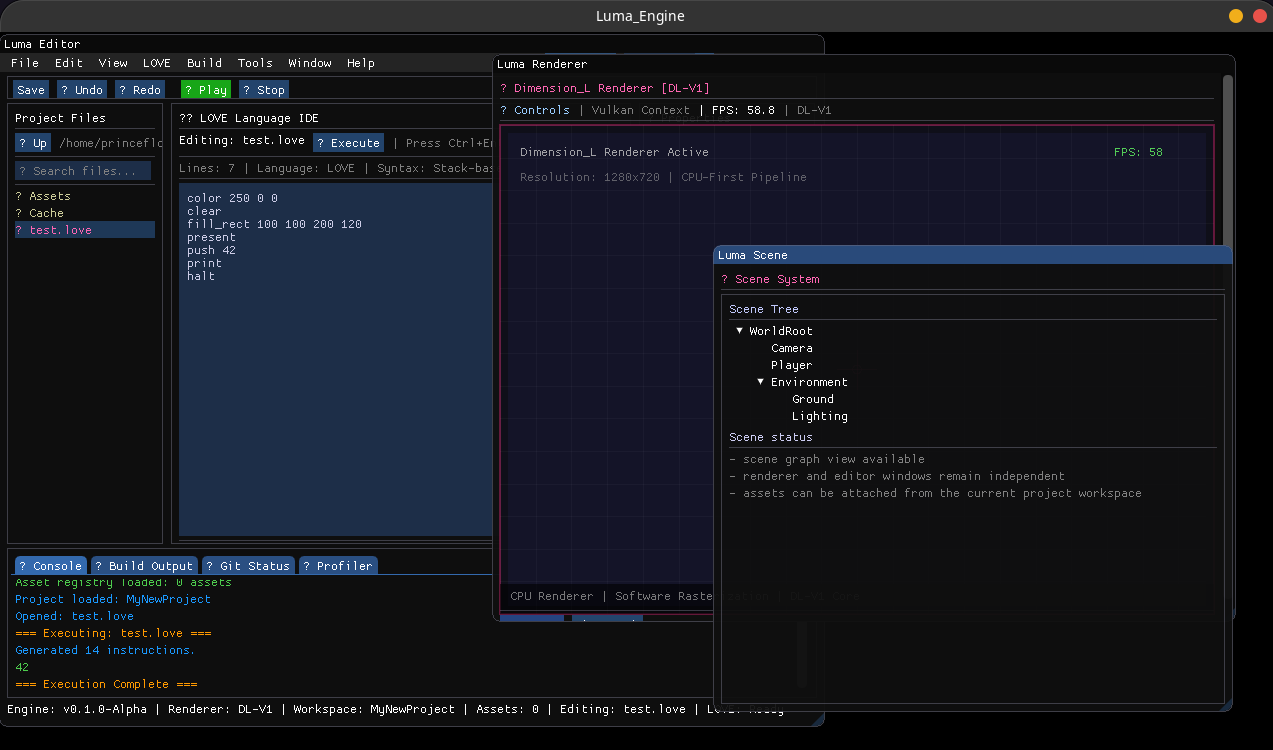
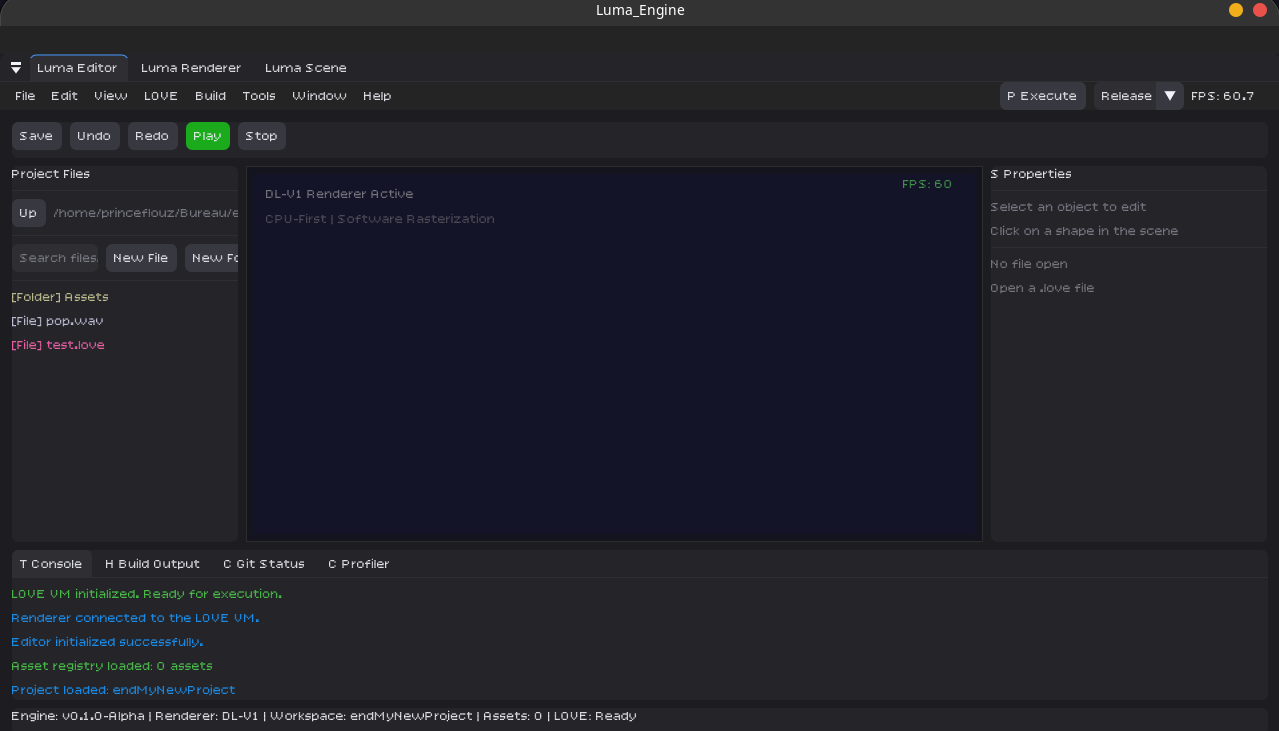
updated website to match current engine status

diff --git a/index.html b/index.html
@@ -301,7 +301,7 @@
         
         <div class="inline-flex items-center gap-2 px-4 py-2 rounded-full glass border border-luma-pink/20 text-xs font-semibold tracking-wide text-luma-pink uppercase mb-6 animate-slide-up">
             <span class="status-dot mr-1"></span>
-            v0.1.0-alpha • Active Development • C++20 • MIT License
+            v0.1.0-alpha • Active Development • C++20 • Proprietary
         </div>
 
         <h1 class="hero-title text-5xl sm:text-6xl md:text-7xl lg:text-8xl font-extrabold tracking-tight max-w-5xl leading-[1.1] mb-8 animate-slide-up" style="animation-delay: 0.1s;">
@@ -309,7 +309,7 @@
         </h1>
         
         <p class="text-base sm:text-xl text-luma-textMuted max-w-2xl font-normal leading-relaxed mb-12 animate-slide-up" style="animation-delay: 0.2s;">
-            A fully working game engine with software rasterization, custom scripting, scene graph, and integrated editor. Build games from source today.
+            A fully working game engine with software rasterization, custom scripting, scene graph, audio system, and integrated editor. Build games from source today.
         </p>
 
         <div class="flex flex-col sm:flex-row gap-4 mb-16 w-full sm:w-auto animate-slide-up" style="animation-delay: 0.3s;">
@@ -463,6 +463,7 @@
                     <li class="flex items-start gap-2"><span class="text-emerald-400">✔</span> Variables (let, get, set)</li>
                     <li class="flex items-start gap-2"><span class="text-emerald-400">✔</span> Control flow (loop/end, jump)</li>
                     <li class="flex items-start gap-2"><span class="text-emerald-400">✔</span> Keyboard &amp; Mouse input</li>
+                    <li class="flex items-start gap-2"><span class="text-emerald-400">✔</span> Audio commands (NEW)</li>
                 </ul>
             </div>
 
@@ -478,7 +479,7 @@
                     <li class="flex items-start gap-2"><span class="text-emerald-400">✔</span> Framebuffer with Z-buffer</li>
                     <li class="flex items-start gap-2"><span class="text-emerald-400">✔</span> Pixel, Line, Triangle, Rect, Circle</li>
                     <li class="flex items-start gap-2"><span class="text-emerald-400">✔</span> Color management</li>
-                    <li class="flex items-start gap-2"><span class="text-emerald-400">✔</span> Dimension_L architecture</li>
+                    <li class="flex items-start gap-2"><span class="text-emerald-400">✔</span> Dimension_L architecture (DL-V1)</li>
                     <li class="flex items-start gap-2"><span class="text-emerald-400">✔</span> Camera system</li>
                 </ul>
             </div>
@@ -500,7 +501,8 @@
                     <li class="flex items-start gap-2"><span class="text-emerald-400">✔</span> Syntax highlighting</li>
                     <li class="flex items-start gap-2"><span class="text-emerald-400">✔</span> File &amp; Asset browser</li>
                     <li class="flex items-start gap-2"><span class="text-emerald-400">✔</span> Launcher screen</li>
-                    <li class="flex items-start gap-2"><span class="text-emerald-400">✔</span> Docking support</li>
+                    <li class="flex items-start gap-2"><span class="text-emerald-400">✔</span> Docking support (NEW)</li>
+                    <li class="flex items-start gap-2"><span class="text-emerald-400">✔</span> Font Awesome icons</li>
                 </ul>
             </div>
 
@@ -539,7 +541,7 @@
         </div>
     </section>
 
-    <!-- ===================================================== -->
+       <!-- ===================================================== -->
     <!-- SCREENSHOTS SECTION -->
     <!-- ===================================================== -->
     
@@ -552,22 +554,49 @@
             </p>
         </div>
 
-        <div class="grid md:grid-cols-2 gap-8">
-            <!-- Screenshot 1 -->
+        <div class="grid md:grid-cols-3 gap-6">
+            <!-- Screenshot 1 - Launcher -->
             <div class="screenshot-container">
-                <img src="pic1.png" alt="Luma Engine Editor Viewport" loading="lazy">
+                <img src="pic1.png" alt="Luma Engine Launcher" loading="lazy">
                 <div class="screenshot-label flex items-center justify-between">
-                    <span><i class="fas fa-desktop mr-2 text-luma-pink"></i> Editor Viewport with Scene Graph</span>
-                    <span class="text-emerald-400 text-xs">Runtime Loop Active</span>
+                    <span><i class="fas fa-rocket mr-2 text-luma-pink"></i> Launcher Screen</span>
+                    <span class="text-emerald-400 text-xs">Project Management</span>
                 </div>
             </div>
 
-            <!-- Screenshot 2 -->
+            <!-- Screenshot 2 - Editor Viewport -->
             <div class="screenshot-container">
-                <img src="pic2.png" alt="Luma Engine LOVE Script Editor" loading="lazy">
+                <img src="pic2.png" alt="Luma Engine Editor Viewport" loading="lazy">
                 <div class="screenshot-label flex items-center justify-between">
-                    <span><i class="fas fa-code mr-2 text-luma-purple"></i> LOVE Script Editor with Bouncing Ball Demo</span>
-                    <span class="text-luma-pink text-xs">Bytecode Compiler Ready</span>
+                    <span><i class="fas fa-desktop mr-2 text-luma-purple"></i> Editor Viewport</span>
+                    <span class="text-emerald-400 text-xs">60 FPS</span>
+                </div>
+            </div>
+
+            <!-- Screenshot 3 - LOVE Editor with Triangle -->
+            <div class="screenshot-container">
+                <img src="pic3.png" alt="Luma Engine LOVE Script Editor with Triangle" loading="lazy">
+                <div class="screenshot-label flex items-center justify-between">
+                    <span><i class="fas fa-code mr-2 text-cyan-400"></i> LOVE Editor &amp; Triangle</span>
+                    <span class="text-luma-pink text-xs">Bytecode Compiler</span>
+                </div>
+            </div>
+
+            <!-- Screenshot 4 - Renderer -->
+            <div class="screenshot-container">
+                <img src="pic4.png" alt="Luma Engine DL-V1 Renderer" loading="lazy">
+                <div class="screenshot-label flex items-center justify-between">
+                    <span><i class="fas fa-microchip mr-2 text-yellow-400"></i> DL-V1 Renderer</span>
+                    <span class="text-emerald-400 text-xs">Software Rasterization</span>
+                </div>
+            </div>
+
+            <!-- Screenshot 5 - Scene System -->
+            <div class="screenshot-container">
+                <img src="pic5.png" alt="Luma Engine Scene System" loading="lazy">
+                <div class="screenshot-label flex items-center justify-between">
+                    <span><i class="fas fa-sitemap mr-2 text-emerald-400"></i> Scene System</span>
+                    <span class="text-emerald-400 text-xs">Node Hierarchy</span>
                 </div>
             </div>
         </div>
@@ -758,7 +787,7 @@
                 </div>
                 <span class="font-bold text-white text-base">Luma Engine</span>
                 <span class="text-luma-textMuted/30">•</span>
-                <span>MIT License</span>
+                <span>Proprietary</span>
             </div>
             
             <div class="flex items-center gap-3">
@@ -781,7 +810,7 @@
         <div class="mt-6 text-xs text-luma-textMuted/30">
             <span class="inline-flex items-center gap-2">
                 <span class="w-1.5 h-1.5 rounded-full bg-emerald-400 animate-pulse"></span>
-                v0.1.0-alpha • Runtime Loop • LOVE VM • Scene System • DL-V1
+                v0.1.0-alpha • Runtime Loop • LOVE VM • Scene System • DL-V1 • Audio
             </span>
         </div>
     </footer>

diff --git a/docs.html b/docs.html
@@ -324,6 +324,7 @@
                     <a href="#control-flow">Control Flow</a>
                     <a href="#input">Input</a>
                     <a href="#rendering">Rendering</a>
+                    <a href="#audio">Audio</a>
                     <a href="#examples">Examples</a>
                     <a href="#quick-reference">Quick Reference</a>
                 </div>
@@ -358,7 +359,7 @@
                     <div class="mt-6 p-4 glass rounded-xl border border-luma-border/20 bg-emerald-500/5">
                         <p class="text-xs text-luma-textMuted">
                             <i class="fas fa-check-circle text-emerald-400 mr-2"></i>
-                            <strong>Status:</strong> LOVE is fully integrated with the engine's Scene System, Renderer, and InputManager. All features documented here are working in the current build.
+                            <strong>Status:</strong> LOVE is fully integrated with the engine's Scene System, Renderer, Audio System, and InputManager. All features documented here are working in the current build.
                         </p>
                     </div>
                 </section>
@@ -551,6 +552,28 @@
                     </div>
                 </section>
 
+                <!-- Audio -->
+                <section id="audio" class="section-fade">
+                    <h2 class="text-3xl font-bold text-white mb-4">Audio</h2>
+                    <p class="text-luma-textMuted text-sm mb-4">
+                        LOVE scripts can play sounds and control audio using the SDL3 audio system.
+                    </p>
+                    
+                    <h3 class="text-xl font-bold text-white mt-6 mb-3">Audio Commands</h3>
+                    <div class="doc-code">
+                        <span class="keyword">audio_load</span> <span class="string">"pop.wav"</span> <span class="string">"pop"</span>   <span class="comment">// Load sound with ID</span><br>
+                        <span class="keyword">audio_play</span> <span class="string">"pop"</span>                    <span class="comment">// Play loaded sound</span><br>
+                        <span class="keyword">audio_set_volume</span> <span class="number">0.5</span>               <span class="comment">// Set master volume (0.0 - 1.0)</span>
+                    </div>
+
+                    <div class="mt-4 p-3 glass rounded-lg border border-luma-border/20">
+                        <p class="text-xs text-luma-textMuted">
+                            <i class="fas fa-info-circle text-luma-purple mr-2"></i>
+                            <strong>Note:</strong> Audio commands work with WAV files. The audio system uses SDL3 and supports volume control.
+                        </p>
+                    </div>
+                </section>
+
                 <!-- Examples -->
                 <section id="examples" class="section-fade">
                     <h2 class="text-3xl font-bold text-white mb-4">Examples</h2>
@@ -616,10 +639,25 @@
                         <span class="keyword">jump</span> <span class="text-yellow-400">loop</span>
                     </div>
 
+                    <h3 class="text-xl font-bold text-white mt-6 mb-3">Audio Example</h3>
+                    <div class="doc-code">
+                        <span class="comment">// Load and play a sound</span><br>
+                        <span class="keyword">audio_load</span> <span class="string">"pop.wav"</span> <span class="string">"pop"</span><br>
+                        <br>
+                        <span class="keyword">loop</span><br>
+                        &nbsp;&nbsp;&nbsp;&nbsp;<span class="comment">// Play sound on mouse click</span><br>
+                        &nbsp;&nbsp;&nbsp;&nbsp;<span class="keyword">if</span> <span class="keyword">mouse_clicked</span> <span class="keyword">then</span><br>
+                        &nbsp;&nbsp;&nbsp;&nbsp;&nbsp;&nbsp;&nbsp;&nbsp;<span class="keyword">audio_play</span> <span class="string">"pop"</span><br>
+                        &nbsp;&nbsp;&nbsp;&nbsp;<span class="keyword">end</span><br>
+                        &nbsp;&nbsp;&nbsp;&nbsp;<br>
+                        &nbsp;&nbsp;&nbsp;&nbsp;<span class="keyword">present</span><br>
+                        <span class="keyword">end</span>
+                    </div>
+
                     <div class="mt-4 p-3 glass rounded-lg border border-luma-border/20">
                         <p class="text-xs text-luma-textMuted">
                             <i class="fas fa-code text-luma-purple mr-2"></i>
-                            <strong>Full Example:</strong> This script demonstrates variables, arithmetic, control flow, input, and rendering in 47 bytecode instructions.
+                            <strong>Full Example:</strong> The bouncing ball script demonstrates variables, arithmetic, control flow, input, and rendering in 47 bytecode instructions. The audio example shows how to integrate sound effects.
                         </p>
                     </div>
                 </section>
@@ -662,7 +700,13 @@
                             <code class="text-xs text-luma-textMuted block">fill_circle cx cy r</code>
                             <code class="text-xs text-luma-textMuted block">present</code>
                         </div>
-                        <div class="glass p-4 rounded-xl border border-luma-border/20 md:col-span-2">
+                        <div class="glass p-4 rounded-xl border border-luma-border/20">
+                            <h4 class="text-luma-pink font-semibold text-sm mb-2">Audio</h4>
+                            <code class="text-xs text-luma-textMuted block">audio_load "path" "id"</code>
+                            <code class="text-xs text-luma-textMuted block">audio_play "id"</code>
+                            <code class="text-xs text-luma-textMuted block">audio_set_volume 0.5</code>
+                        </div>
+                        <div class="glass p-4 rounded-xl border border-luma-border/20">
                             <h4 class="text-yellow-400 font-semibold text-sm mb-2">Arithmetic &amp; Comparison</h4>
                             <code class="text-xs text-luma-textMuted block">add sub mul div</code>
                             <code class="text-xs text-luma-textMuted block">eq ne lt gt le ge</code>
@@ -694,7 +738,7 @@
                 </div>
                 <span class="font-bold text-white text-base">Luma Engine</span>
                 <span class="text-luma-textMuted/30">•</span>
-                <span>MIT License</span>
+                <span>Proprietary</span>
             </div>
             
             <div class="flex items-center gap-3">
@@ -717,7 +761,7 @@
         <div class="mt-6 text-xs text-luma-textMuted/30">
             <span class="inline-flex items-center gap-2">
                 <span class="w-1.5 h-1.5 rounded-full bg-emerald-400 animate-pulse"></span>
-                LOVE v1.0 • Runtime Loop • 60 FPS • Scene System Ready
+                LOVE v1.0 • Runtime Loop • 60 FPS • Scene System Ready • Audio Ready
             </span>
         </div>
     </footer>

diff --git a/download.html b/download.html
@@ -277,12 +277,12 @@
         </h1>
         
         <p class="text-base sm:text-lg text-luma-textMuted max-w-2xl mx-auto font-normal leading-relaxed mb-12 animate-slide-up" style="animation-delay: 0.2s;">
-            Download the latest version of Luma Engine. Open source, free to use, and ready to build your next game. All platforms supported.
+            Download the latest version of Luma Engine. Proprietary software, available for Linux (Ubuntu). Ready to build your next game.
         </p>
         
         <div class="inline-flex items-center gap-2 px-4 py-2 rounded-full bg-emerald-500/10 border border-emerald-500/20 text-xs text-emerald-400 mb-8">
             <span class="w-1.5 h-1.5 rounded-full bg-emerald-400 animate-pulse"></span>
-            v0.1.0-alpha • Runtime Loop • LOVE VM • Scene System • DL-V1
+            v0.1.0-alpha • Runtime Loop • LOVE VM • Scene System • DL-V1 • Audio
         </div>
     </section>
 
@@ -404,20 +404,22 @@
                 <div class="border-l-2 border-luma-pink pl-4">
                     <div class="flex items-center gap-3">
                         <span class="text-xs font-mono text-luma-pink bg-luma-pink/10 px-2 py-0.5 rounded">v0.1.0-alpha</span>
-                        <span class="text-xs text-luma-textMuted">July 29, 2026</span>
+                        <span class="text-xs text-luma-textMuted">August 8, 2026</span>
                         <span class="status-badge ready text-[10px]">Released</span>
                     </div>
                     <ul class="mt-2 text-sm text-luma-textMuted space-y-1">
-                        <li>🚀 <span class="text-white">Runtime Loop</span> — 60 FPS continuous execution with delta time</li>
-                        <li>⚡ <span class="text-white">LOVE VM</span> — Bytecode compiler and stack-based VM</li>
-                        <li>📦 <span class="text-white">Variables</span> — let, get, set support with multiple types</li>
-                        <li>🔄 <span class="text-white">Control Flow</span> — loop/end, jump, jump_if, jump_if_not</li>
-                        <li>⌨ <span class="text-white">Input</span> — Keyboard (key_down) and Mouse (mouse_x, mouse_y, mouse_clicked)</li>
-                        <li>🎨 <span class="text-white">Software Renderer</span> — Pixel, Line, Triangle, Rect, Circle with color</li>
-                        <li>🏗 <span class="text-white">Scene System</span> — Node hierarchy, SpriteNode, ShapeNode, transform propagation</li>
-                        <li>🖼 <span class="text-white">Asset Manager</span> — Texture loading (PNG/JPG), caching, UUID-based assets</li>
-                        <li>🖥 <span class="text-white">Integrated Editor</span> — Viewport, LOVE IDE, file browser, property panel</li>
-                        <li>📐 <span class="text-white">Dimension_L</span> — DL-V1 rendering architecture with camera system</li>
+                        <li><span class="text-white">Runtime Loop</span> — 60 FPS continuous execution with delta time</li>
+                        <li><span class="text-white">LOVE VM</span> — Bytecode compiler and stack-based VM</li>
+                        <li><span class="text-white">Variables</span> — let, get, set support with multiple types</li>
+                        <li><span class="text-white">Control Flow</span> — loop/end, jump, jump_if, jump_if_not</li>
+                        <li><span class="text-white">Input</span> — Keyboard (key_down) and Mouse (mouse_x, mouse_y, mouse_clicked)</li>
+                        <li><span class="text-white">Software Renderer</span> — Pixel, Line, Triangle, Rect, Circle with color</li>
+                        <li><span class="text-white">Scene System</span> — Node hierarchy, SpriteNode, ShapeNode, transform propagation</li>
+                        <li><span class="text-white">Audio System</span> — SDL3 audio, WAV loading, playback, volume control (NEW)</li>
+                        <li><span class="text-white">Asset Manager</span> — Texture loading (PNG/JPG), caching, UUID-based assets</li>
+                        <li><span class="text-white">Integrated Editor</span> — Viewport, LOVE IDE, file browser, property panel</li>
+                        <li><span class="text-white">Docking Editor</span> — Dear ImGui docking support, custom layouts (NEW)</li>
+                        <li><span class="text-white">Dimension_L</span> — DL-V1 rendering architecture with camera system</li>
                     </ul>
                 </div>
             </div>
@@ -433,7 +435,7 @@
                 </div>
                 <span class="font-bold text-white text-base">Luma Engine</span>
                 <span class="text-luma-textMuted/30">•</span>
-                <span>MIT License</span>
+                <span>Proprietary</span>
             </div>
             
             <div class="flex items-center gap-3">
@@ -456,7 +458,7 @@
         <div class="mt-6 text-xs text-luma-textMuted/30">
             <span class="inline-flex items-center gap-2">
                 <span class="w-1.5 h-1.5 rounded-full bg-emerald-400 animate-pulse"></span>
-                v0.1.0-alpha • Runtime Loop • LOVE VM • Scene System • DL-V1
+                v0.1.0-alpha • Runtime Loop • LOVE VM • Scene System • DL-V1 • Audio
             </span>
         </div>
     </footer>
